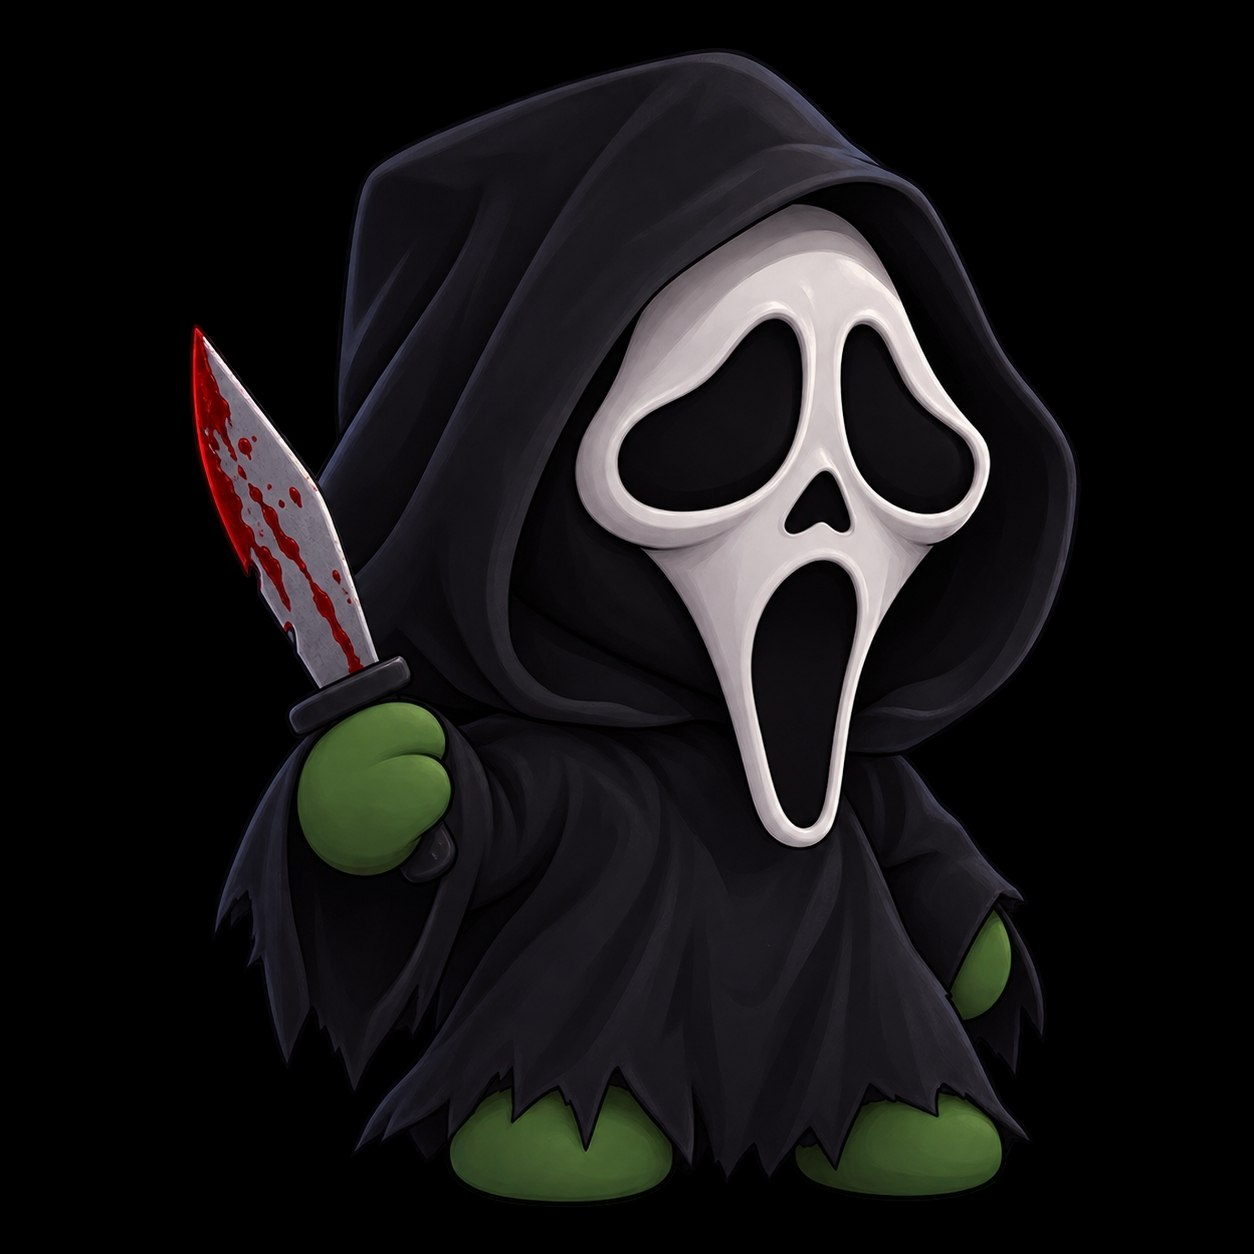
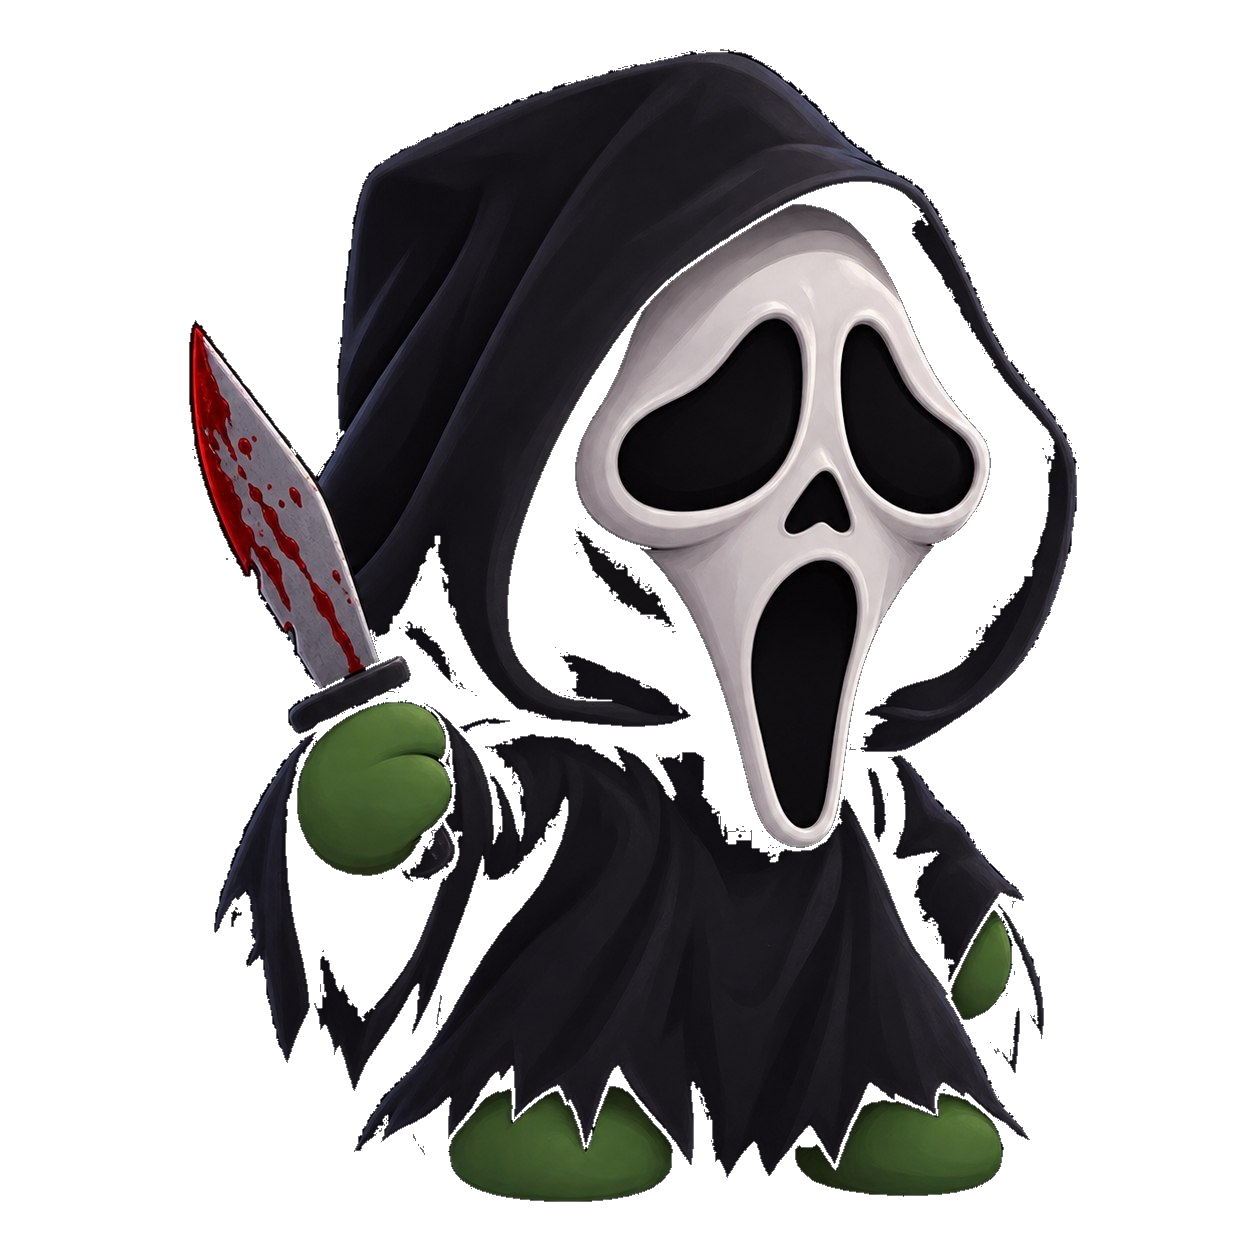
Add files via upload

diff --git a/webapp/nfts.js b/webapp/nfts.js
@@ -531,7 +531,6 @@ var NFTS = {
     desc: "ризрачный плюш из потустороннего мира. Светится в темноте и исчезает на рассвете.",
     isPhoto: true,
     photoSrc: 'plush_ghost.png',
-    darkBg: true,
     auraColor: '#a5f3fc',
     bg1: '#00101a', bg2: '#000a12'
   },
@@ -546,7 +545,6 @@ var NFTS = {
     desc: "едчайший синий цветок с другой планеты. оворят, он исполняет желания.",
     isPhoto: true,
     photoSrc: 'blue_flowers.png',
-    darkBg: true,
     auraColor: '#60a5fa',
     bg1: '#000a1a', bg2: '#00040e'
   },
@@ -562,7 +560,6 @@ var NFTS = {
     isPhoto: true,
     photoSrc: 'plush_myers.png',
     auraColor: '#94a3b8',
-    darkBg: true,
     bg1: '#0a0a0a', bg2: '#050505'
   },
 };

diff --git a/webapp/app.js b/webapp/app.js
@@ -1626,7 +1626,7 @@ const CASES = {
     name: 'Nightmare Case',
     price: 3500,
     color: '#a855f7',
-    img: 'nightmare_case.jpg',
+    img: 'nightmare_case.png',
     imgFallback: (function() {
       var s = '<svg xmlns="http://www.w3.org/2000/svg" width="200" height="200">'
         + '<defs>'
